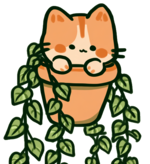
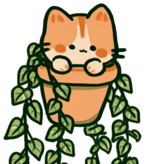
Add compact mobile vine art and rebuild from the longest-vine source
Below xlarge (1680px), swap the full 4-strand artwork for a simplified
single-strand version — the full detail turns to mush once compressed
under ~30px wide, so small/medium/large screens now get a legible
version instead. Also rebuilt every asset (full and compact) from the
latest source image, whose vines run the full length on all 4 strands,
giving a more consistent repeat and end-tip than the previous source.

diff --git a/apps/storefront/src/modules/layout/components/vine-decor/index.tsx b/apps/storefront/src/modules/layout/components/vine-decor/index.tsx
@@ -2,16 +2,56 @@ const RAIL_TOP = "4rem"
 
 // Content-container padding is a fixed px-6 (24px) at every breakpoint until
 // the 1440px container itself starts leaving real margin (large screens and
-// up). So the rail has to stay thin enough to sit inside that gutter on
-// small/medium screens, then can grow once there's genuine margin to use.
-const RAIL_WIDTH_CLASSES = "w-[16px] small:w-[22px] large:w-[28px] xlarge:w-[110px] 2xlarge:w-[150px]"
+// up). Below xlarge there's only ever a thin sliver of room, and the full
+// multi-strand artwork turns to mush at that size — so small/medium/large
+// screens get a simplified single-strand version instead, and only xlarge+
+// (where there's real margin to work with) gets the full detailed art.
+const COMPACT_WIDTH_CLASSES = "w-[12px] small:w-[18px] large:w-[26px]"
+const FULL_WIDTH_CLASSES = "xlarge:w-[110px] 2xlarge:w-[150px]"
 
 const VineDecor = () => {
   return (
     <>
+      {/* Compact single-strand version: small/medium/large screens */}
       <div
         aria-hidden="true"
-        className={`flex flex-col absolute pointer-events-none z-30 ${RAIL_WIDTH_CLASSES}`}
+        className={`flex xlarge:hidden flex-col absolute pointer-events-none z-30 ${COMPACT_WIDTH_CLASSES}`}
+        style={{ top: RAIL_TOP, bottom: 0, left: 0 }}
+      >
+        <img src="/decor/vine-compact-header-left.png" alt="" className="w-full block" />
+        <div
+          className="flex-1 w-full"
+          style={{
+            backgroundImage: "url(/decor/vine-compact-tile-left.png)",
+            backgroundRepeat: "repeat-y",
+            backgroundPosition: "top left",
+            backgroundSize: "100% auto",
+          }}
+        />
+        <img src="/decor/vine-compact-tip-left.png" alt="" className="w-full block" />
+      </div>
+      <div
+        aria-hidden="true"
+        className={`flex xlarge:hidden flex-col absolute pointer-events-none z-30 ${COMPACT_WIDTH_CLASSES}`}
+        style={{ top: RAIL_TOP, bottom: 0, right: 0 }}
+      >
+        <img src="/decor/vine-compact-header-right.png" alt="" className="w-full block" />
+        <div
+          className="flex-1 w-full"
+          style={{
+            backgroundImage: "url(/decor/vine-compact-tile-right.png)",
+            backgroundRepeat: "repeat-y",
+            backgroundPosition: "top right",
+            backgroundSize: "100% auto",
+          }}
+        />
+        <img src="/decor/vine-compact-tip-right.png" alt="" className="w-full block" />
+      </div>
+
+      {/* Full detailed version: xlarge+ screens, where there's room for it */}
+      <div
+        aria-hidden="true"
+        className={`hidden xlarge:flex flex-col absolute pointer-events-none z-30 ${FULL_WIDTH_CLASSES}`}
         style={{ top: RAIL_TOP, bottom: 0, left: 0 }}
       >
         <img src="/decor/vine-header-left.png" alt="" className="w-full block" />
@@ -28,7 +68,7 @@ const VineDecor = () => {
       </div>
       <div
         aria-hidden="true"
-        className={`flex flex-col absolute pointer-events-none z-30 ${RAIL_WIDTH_CLASSES}`}
+        className={`hidden xlarge:flex flex-col absolute pointer-events-none z-30 ${FULL_WIDTH_CLASSES}`}
         style={{ top: RAIL_TOP, bottom: 0, right: 0 }}
       >
         <img src="/decor/vine-header-right.png" alt="" className="w-full block" />
